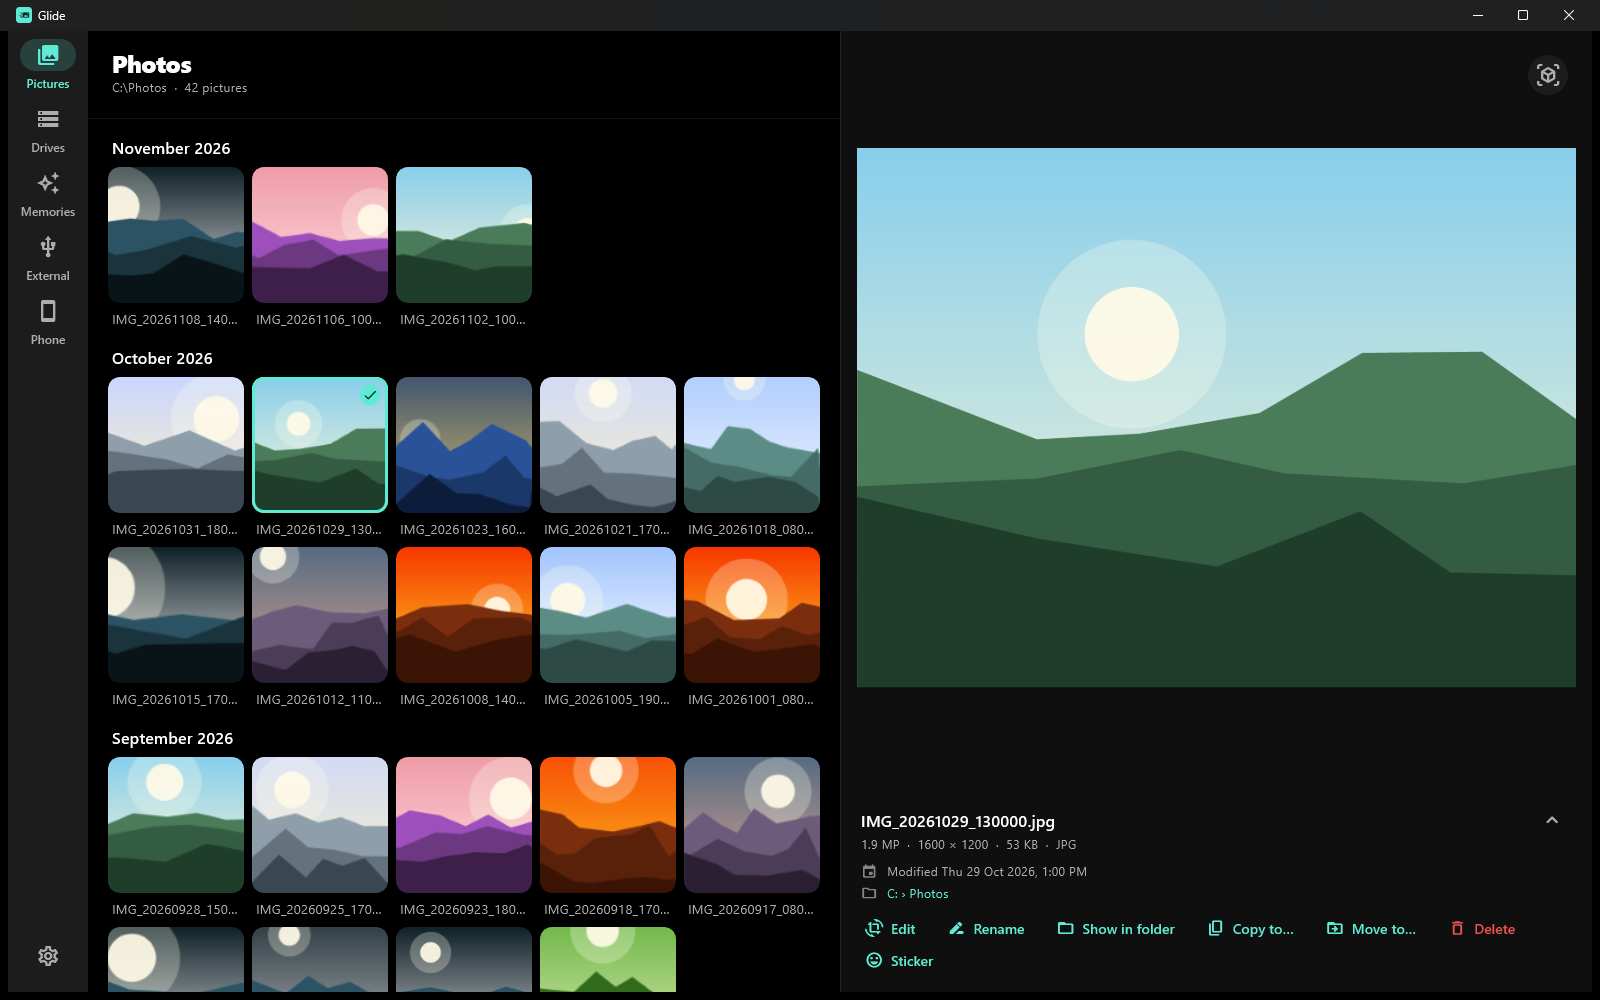
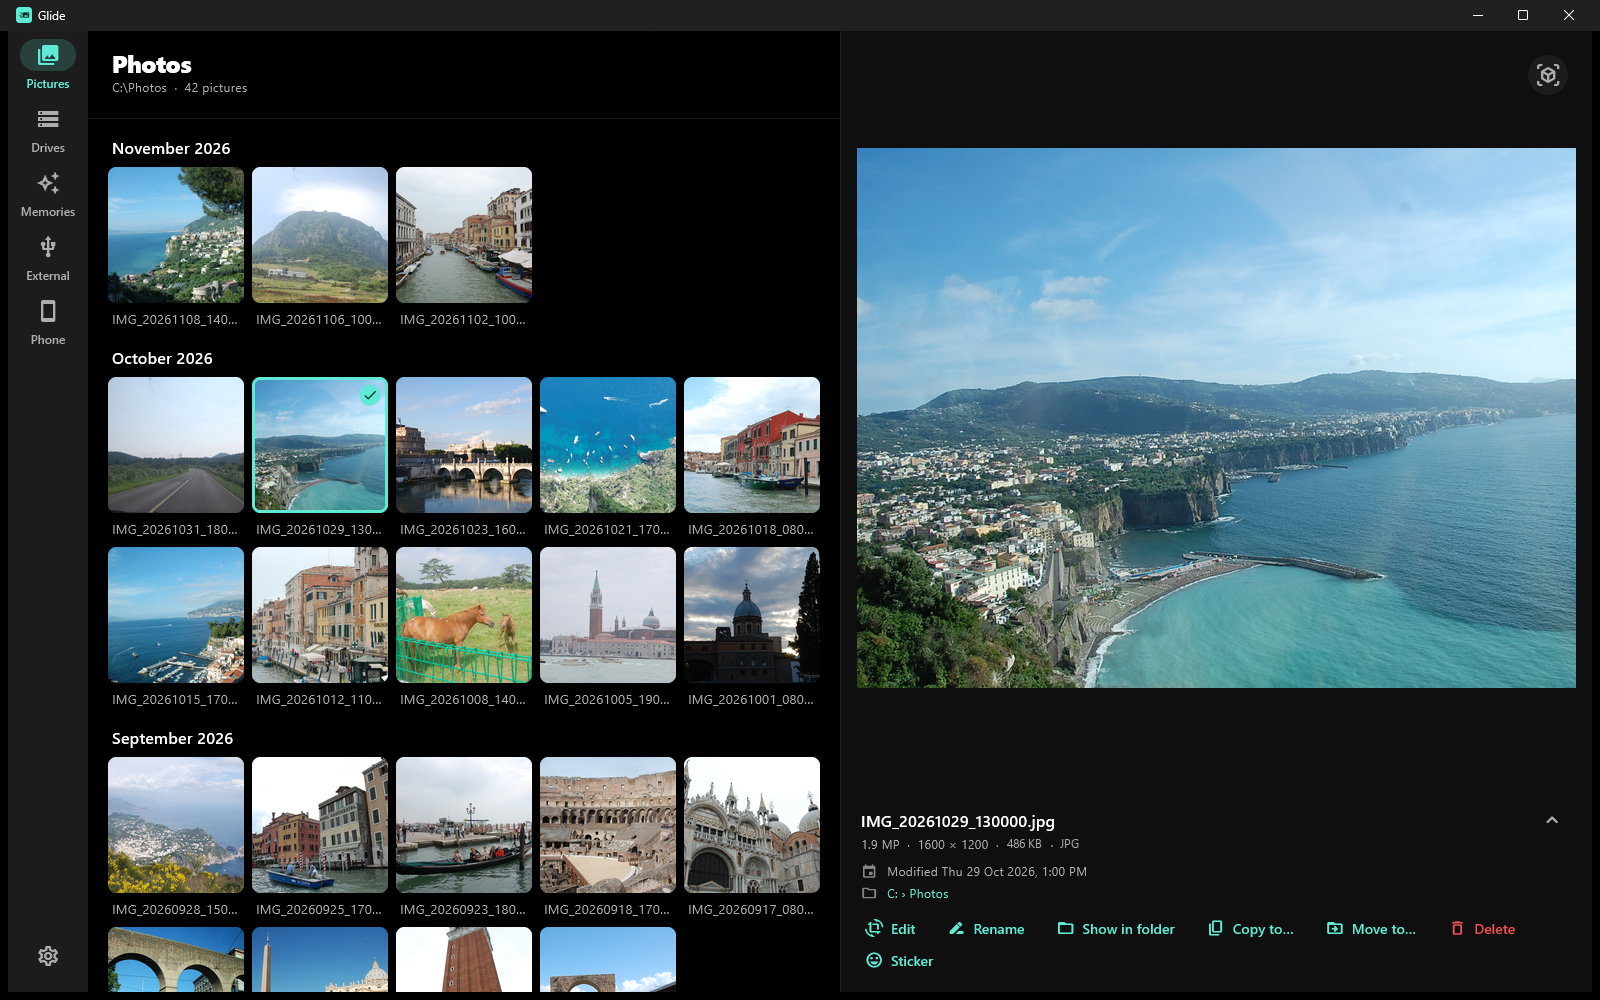
Glide: real screenshots of Memories, Compare, selecting and editing, with how to do each
The first screenshot now shows scenic photos, and the library shot that repeated it is gone.
scripts/capture-window.ps1 sizes an app's window to 1600x1000 and saves a PNG of it.

diff --git a/src/content.config.ts b/src/content.config.ts
@@ -13,7 +13,8 @@ const projects = defineCollection({
       icon: image(),
       cover: image(),
       coverAlt: z.string(),
-      // More screenshots, shown under the text, each with a heading and a line about it.
+      // More screenshots, shown under the text, each with a heading, a line about it
+      // and, optionally, how to do it in the app.
       shots: z
         .array(
           z.object({
@@ -21,6 +22,7 @@ const projects = defineCollection({
             alt: z.string(),
             title: z.string(),
             caption: z.string(),
+            how: z.string().optional(),
           }),
         )
         .default([]),

diff --git a/src/content/projects/glide.md b/src/content/projects/glide.md
@@ -3,32 +3,53 @@ title: Glide
 tagline: A photo viewer that shows every picture on your PC, drives and phone, newest first by month.
 icon: ../../assets/glide/icon.png
 cover: ../../assets/glide/windows-home.png
-coverAlt: Glide on Windows, showing pictures grouped by month with one open in the preview pane
+coverAlt: Glide on Windows, showing travel photos of coastlines, Venice and Rome grouped by month, with a view over the Italian coast open in the preview pane
 shots:
-  - src: ../../assets/glide/windows-library.png
-    alt: Camera photos from 2011 and 2018 grouped by month in Glide, with a photo of Capri open beside them and its date taken, camera and exposure below
-    title: Years of photos, in order.
-    caption: Pictures are sorted by when they were taken, read from the camera, so old trips sit in their own months. The camera and its settings are shown too.
+  - src: ../../assets/glide/windows-memories.png
+    alt: Glide's Memories tab with photos taken on 12 November in 2023, 2021, 2019 and 2016, each year under its own heading, and a photo of Capri open beside them
+    title: On this day, years ago.
+    caption: Memories brings back the pictures you took on today's date in years past, a year at a time, from Venice three years ago to a drive in the country ten years ago.
+    how: Open the Memories tab on the left. Click a picture to see it bigger.
+  - src: ../../assets/glide/windows-compare.png
+    alt: Two photos of the same Venice canal side by side, labelled Then, 4 Aug 2013, and Now, 12 Nov 2023, under the heading 10 years apart
+    title: Then and now.
+    caption: Put two pictures side by side, or drag a slider across one to reveal the other. Glide tells you how far apart they were taken.
+    how: Click one picture, Ctrl+click another, then choose Compare under the preview. Switch between the slider and side by side at the top right.
+  - src: ../../assets/glide/windows-select.png
+    alt: Five photos ticked across two months in Glide, with 5 pictures selected, 2.0 MB, and Copy to, Move to, Delete and Collage buttons beside them
+    title: Tidy up in one go.
+    caption: Pick out pictures as you would in File Explorer, with Ctrl and Shift, then copy, move or delete them together, or turn them into a collage.
+    how: Ctrl+click to add pictures one at a time, Shift+click to take a whole run of them, or press Ctrl+A for all. The buttons appear under the preview.
+  - src: ../../assets/glide/windows-adjust.png
+    alt: Glide's editor on a photo of the Italian coast, with contrast, shadows, vignette, saturation and warmth turned up on the sliders beside it
+    title: Make it look its best.
+    caption: Crop and rotate, brighten the shadows, warm up the colours, or try a filter. Then save over the original, or keep it and save a copy.
+    how: Click a picture, then Edit (or press E). Crop, Adjustment and Filter are along the top.
   - src: ../../assets/glide/windows-blur.png
     alt: Glide's editor with the background behind a bronze horse-and-rider statue blurred, leaving the statue sharp
     title: Blur the background.
     caption: Glide finds the subject for you and softens everything behind it, like a portrait lens. A slider sets how much.
+    how: In Edit, open Background and choose Blur. Blur intensity sets how much.
   - src: ../../assets/glide/windows-colour-pop.png
     alt: A pot of pink hydrangeas kept in colour while the paving and plants around it are turned black and white
     title: Colour pop.
     caption: Keep the subject in colour and turn the rest black and white.
+    how: In Edit, open Background and choose Colour pop.
   - src: ../../assets/glide/windows-replace.png
     alt: A marble bust with the museum behind it replaced by a plain teal background
     title: Remove or replace the background.
     caption: Take the background away for a transparent PNG, or swap it for any colour.
+    how: In Edit, open Background and choose Remove, or Replace with a colour.
   - src: ../../assets/glide/windows-sticker.png
     alt: The Capitoline Wolf statue cut out of its photo as a sticker, with a white outline and a soft shadow
     title: Make a sticker.
     caption: Cut the subject out with an outline and a shadow, then copy it straight into a chat or a document.
+    how: Click a picture, then Sticker under the preview. Set the outline and the shadow, then Copy or Save.
   - src: ../../assets/glide/windows-collage.png
     alt: A collage of five photos from Venice and Rome, two above and three below, on a navy background
     title: Put a collage together.
     caption: Pick a few pictures and choose a layout, a shape, the spacing, the corners and a background.
+    how: Select 2 to 9 pictures, then choose Collage under the preview.
 platforms: [Windows]
 tech: [Flutter, Dart, C++, ONNX Runtime]
 github: https://github.com/BersamaMus/Glide
@@ -47,8 +68,9 @@ any folders to click through. The same goes for your other drives, a USB stick,
 and an Android phone plugged in by cable. Memories brings back what you took on
 this day in years past.
 
-- **Every picture, by month:** dated by when it was taken, not when it was copied.
-  Photos and screenshots can be shown apart.
+- **Every picture, by month:** dated by when it was taken, not when it was copied,
+  with the camera and its settings shown alongside. Photos and screenshots can be
+  shown apart.
 - **The formats cameras use:** JPG, PNG, GIF, WebP, HEIC, AVIF, TIFF and RAW files
   from most cameras.
 - **Edit a copy:** crop, rotate, light and colour adjustments, and filters. You can
